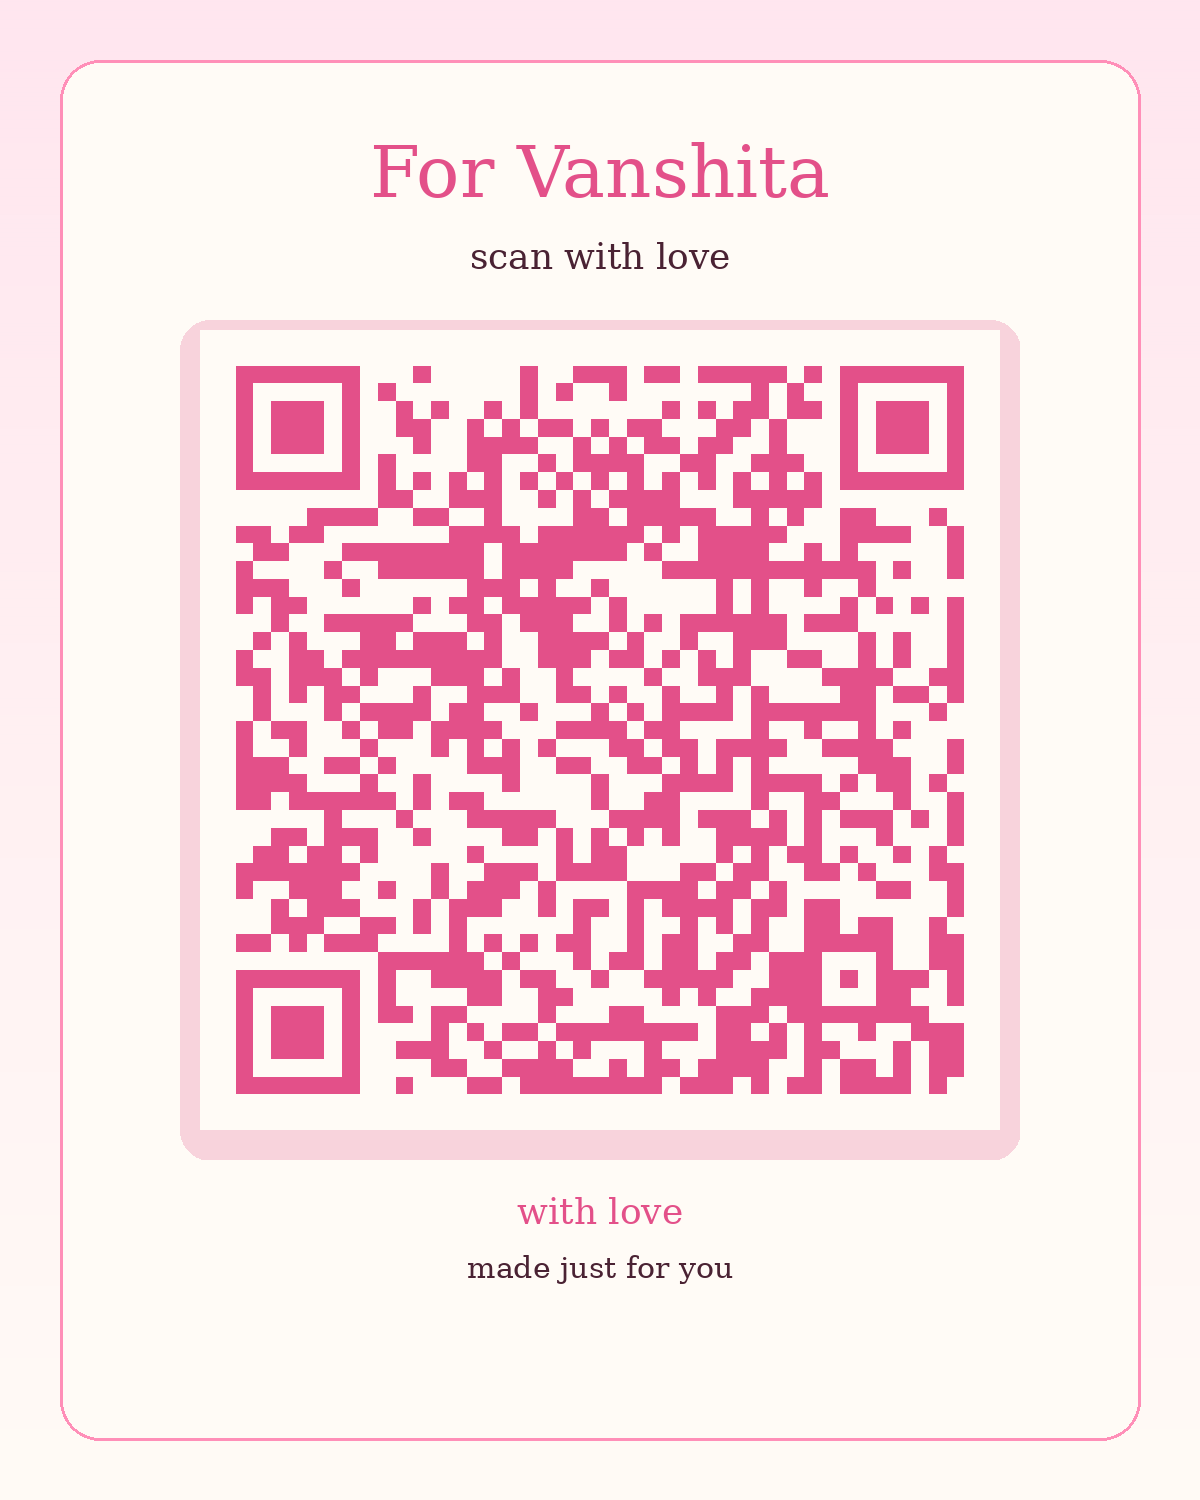
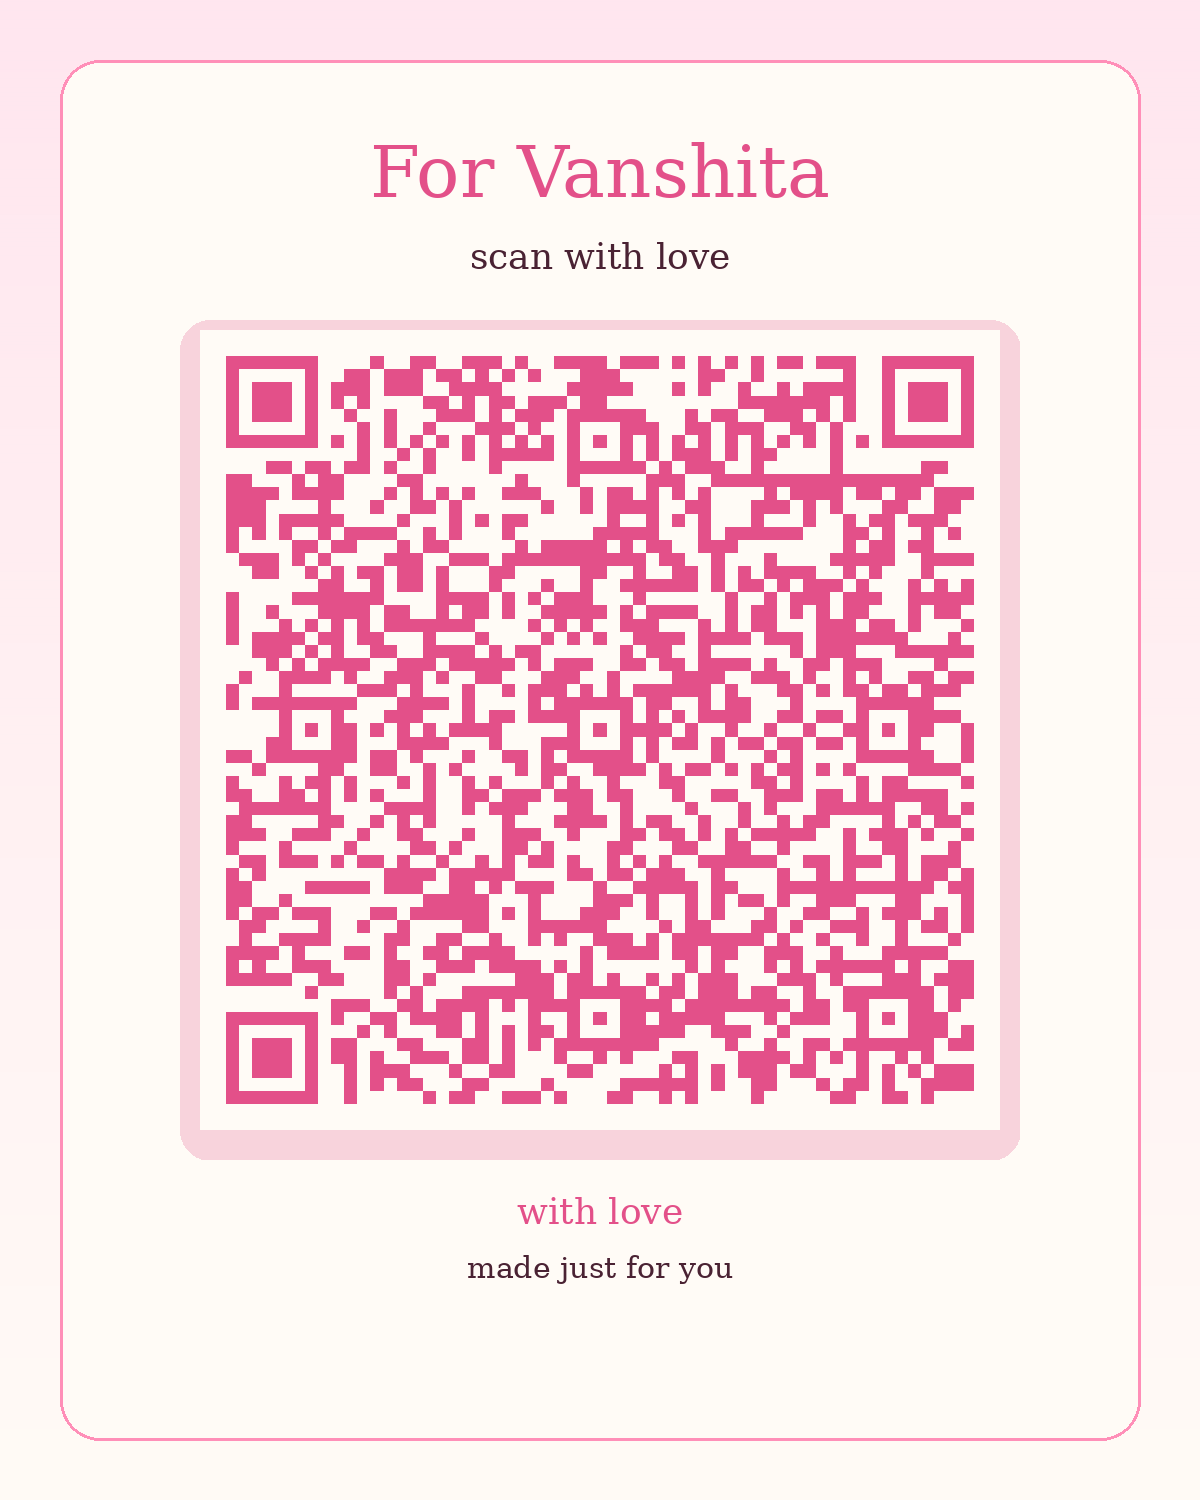
Point QR at raw.githack.com URL (works with no setup)
The previous QR pointed at the GitHub Pages URL which requires
Pages source to be set to 'GitHub Actions' in repo settings.
raw.githack.com serves any public GitHub repo file directly via
CDN with no setup needed, so the link just works.

Changed region(s): [[0.185, 0.2147, 0.8325, 0.736]]

diff --git a/for-vanshita/generate_qr.py b/for-vanshita/generate_qr.py
@@ -14,7 +14,10 @@ import qrcode
 from qrcode.constants import ERROR_CORRECT_H
 from PIL import Image, ImageDraw, ImageFont
 
-DEFAULT_URL = "https://siddharth9146.github.io/Gaming-Tournament-Manager/"
+DEFAULT_URL = (
+    "https://rawcdn.githack.com/Siddharth9146/Gaming-Tournament-Manager/"
+    "claude/gift-girlfriend-kllhO/for-vanshita/index.html"
+)
 
 PINK_DARK = (227, 80, 137)
 PINK_MID = (255, 143, 184)
